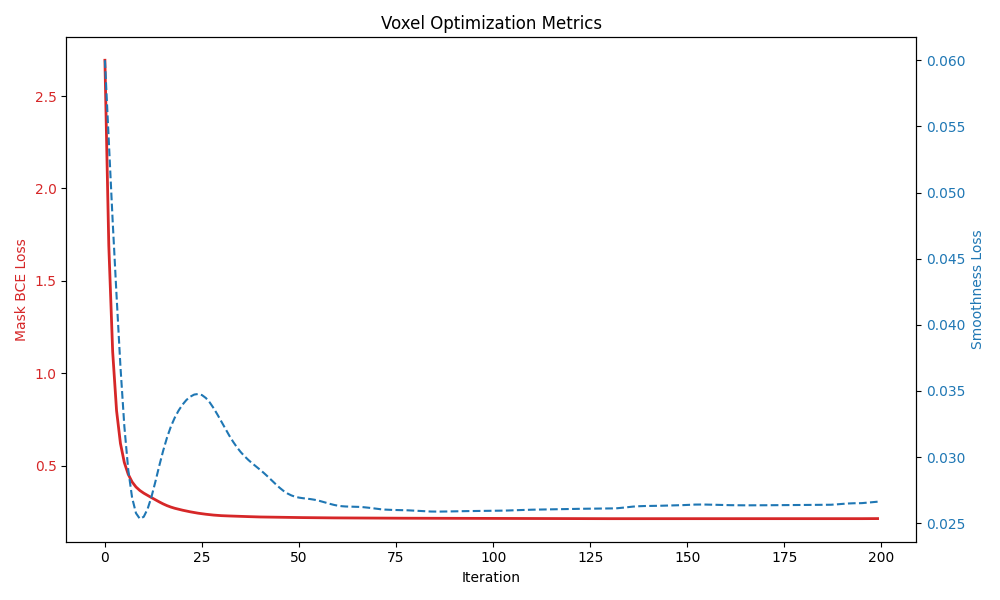
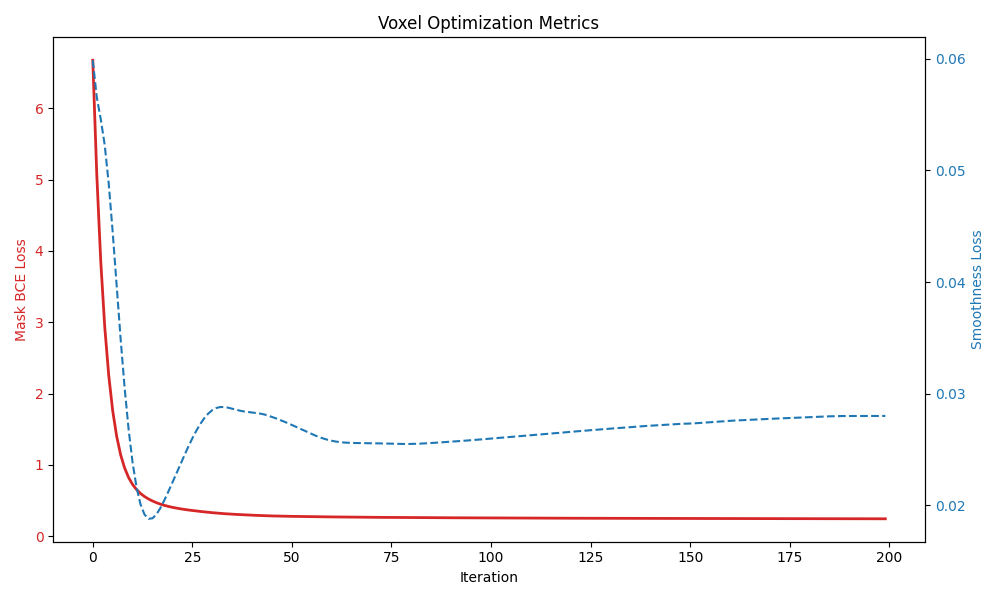
Fix accuracy issues and add mask overlay to cameras

diff --git a/polyscope/pipeline_full_2.py b/polyscope/pipeline_full_2.py
@@ -193,14 +193,18 @@ def dirichlet_energy(phi):
     
     return (dx**2).mean() + (dy**2).mean() + (dz**2).mean()
 
-def render_phi_to_image(phi, viewmat, K, height, width, center, radius, sharpness, num_samples, device):
+def render_phi_to_image(phi, viewmats, Ks, height, width, center, radius, sharpness, device):
     """Renders the phi grid as an image (masks) using volume rendering."""
-    ray_origins, ray_dirs = construct_rays(viewmat, K, height, width, device)
-    points = sample_points_along_rays(ray_origins, ray_dirs, num_samples) # TODO: Will this still work for thicker objects?
-    phi_vals = query_phi_trilinear(phi, points, center, radius) # Trilinear interpolation of phi along ray
-    alpha = torch.sigmoid(-sharpness * phi_vals) # 1 - exp(-sigma*delta), but use sigmoid for stability
-    pred_mask = 1.0 - torch.prod(1.0 - alpha, dim=-1) # Compute cumulative opacity along the ray
-    return pred_mask
+    renderings = []
+    for i in range(len(viewmats)):
+        ray_origins, ray_dirs = construct_rays(viewmats[i], Ks[i], height, width, device)
+        # Use a higher sample count for cleaner evaluation
+        points = sample_points_along_rays(ray_origins, ray_dirs, num_samples=100) 
+        phi_vals = query_phi_trilinear(phi, points, center, radius)
+        alpha = torch.sigmoid(-sharpness * phi_vals)
+        mask = 1.0 - torch.prod(1.0 - alpha, dim=-1)
+        renderings.append(mask.reshape(height, width))
+    return torch.stack(renderings)
 
 def plot_training_metrics(history, filename="training_metrics.png"):
     """
@@ -282,11 +286,10 @@ def visualize_with_polyscope(masked_rgbs, viewmats, Ks, phi, center, radius, iso
         cam = ps.register_camera_view(f"Cam_{i}", params)
         cam.set_widget_focal_length(0.05)
         cam.set_widget_color((0.5, 0.5, 0.5))
-        
-        # masked_rgbs[i] is now already (H, W, 3)
+
         cam.add_color_image_quantity(f"MaskedView_{i}", masked_rgbs[i], enabled=True, show_in_camera_billboard=True)
 
-    ps_cloud = ps.register_point_cloud("Cam-ctr", np.array(centers))
+    ps_cloud = ps.register_point_cloud("Cam-ctr", np.array(centers), enabled=False)
     ps_cloud.add_vector_quantity("Cam-forward", np.array(forwards), color=(0.8, 0.2, 0.2))
     ps_cloud.add_vector_quantity("Cam-right", np.array(rights), color=(0.2, 0.8, 0.2))
     ps_cloud.add_vector_quantity("Cam-up", np.array(ups), color=(0.2, 0.2, 0.8))
@@ -377,6 +380,17 @@ if __name__ == "__main__":
     masked_rgb_images = (rendered_images.detach().cpu().numpy() * masks_expanded).astype(np.float32)
     assert masked_rgb_images.ndim == 4 and masked_rgb_images.shape[-1] == 3, \
         f"Expected [N, H, W, 3], got {masked_rgb_images.shape}"
+    
+    original_renders = rendered_images.detach().cpu().numpy()
+    masks = target_masks
+
+    blended_images = []
+    for i in range(args.num_views):
+        tinted = np.zeros((*original_renders.shape[1:3], 3), dtype=np.float32)
+        tinted[..., 0] = 1.0
+        alpha_map = (masks[i] * 0.5)[..., None].astype(np.float32)
+        blended = original_renders[i] * (1.0 - alpha_map) + tinted * alpha_map
+        blended_images.append(blended)
 
     # Initialize voxel grid and optimizer
     phi = init_phi_grid(args.grid_resolution, device)
@@ -397,7 +411,11 @@ if __name__ == "__main__":
 
         current_iter_masks = []
         for view_idx in range(args.num_views):
-            pred_mask = render_phi_to_image(phi, viewmats[view_idx], Ks[view_idx], args.height, args.width, target_center, grid_radius, args.sharpness, args.num_samples, device)
+            ray_origins, ray_dirs = construct_rays(viewmats[view_idx], Ks[view_idx], args.height, args.width, device)
+            points = sample_points_along_rays(ray_origins, ray_dirs, args.num_samples)
+            phi_vals = query_phi_trilinear(phi, points, target_center, grid_radius)
+            alpha = torch.sigmoid(-args.sharpness * phi_vals)
+            pred_mask = 1.0 - torch.prod(1.0 - alpha, dim=-1)
 
             if iter % 10 == 0:
                 mask_2d = pred_mask.reshape(args.height, args.width).detach().cpu().numpy()
@@ -444,7 +462,7 @@ if __name__ == "__main__":
     plot_training_metrics(history, filename="truck_optimization_log.png")
 
     print("Visualizing vertices in polyscope")
-    visualize_with_polyscope(masked_rgb_images, viewmats, Ks, phi, target_center, grid_radius, iso_level=args.iso_level)
+    visualize_with_polyscope(blended_images, viewmats, Ks, phi, target_center, grid_radius, iso_level=args.iso_level)
 
     print("Generating unseen views for evaluation...")
     num_test_views = args.num_test_views
@@ -459,10 +477,7 @@ if __name__ == "__main__":
         backgrounds=torch.zeros((num_test_views, 3), device=device)
     )
 
-    phi_renders = torch.stack([
-        render_phi_to_image(phi, test_viewmats[i], test_Ks[i], args.height, args.width, target_center, grid_radius, args.sharpness, args.num_samples, device).reshape(args.height, args.width)
-        for i in range(num_test_views)
-    ])
+    phi_renders = render_phi_to_image(phi, test_viewmats, test_Ks, args.height, args.width, target_center, grid_radius, args.sharpness, device)
 
     # Visualize the new views and SAM masks
     original_imgs = test_renders.detach().float().clamp(0, 1).cpu().numpy()
